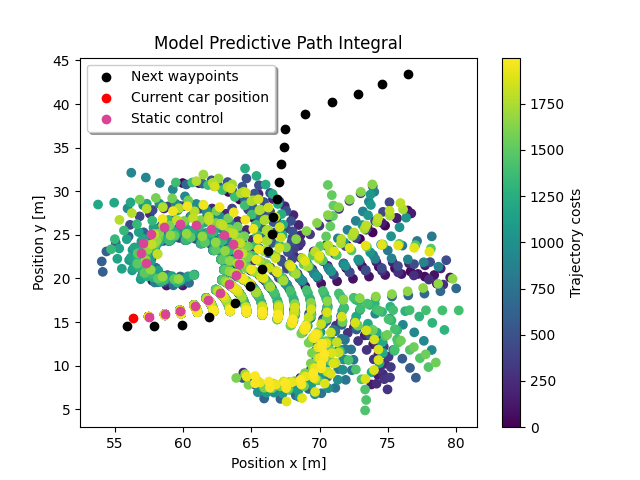
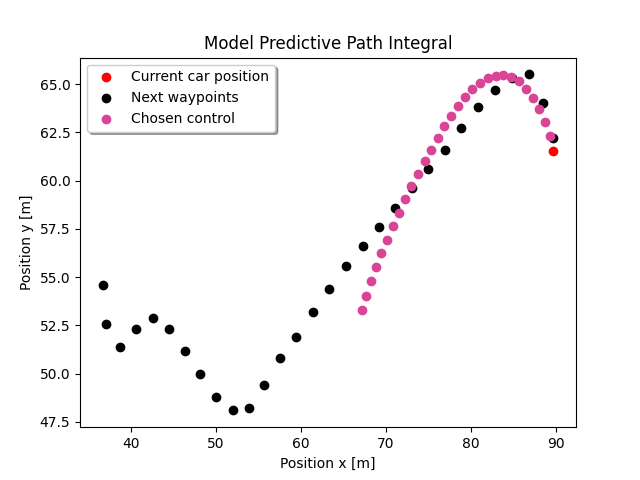
static vs random walk sampling

diff --git a/car_controller.py b/car_controller.py
@@ -1,3 +1,5 @@
+import sys
+sys.path.insert(0, './commonroad-vehicle-models/PYTHON/')
 
 from vehiclemodels.init_ks import init_ks
 from vehiclemodels.init_st import init_st
@@ -27,16 +29,25 @@ import math
 from scipy.integrate import odeint
 
 #Covariance Matrix for the input distribution
-INITIAL_COVARIANCE = [[0.4, 0], [0, 0.0]] 
+INITIAL_COVARIANCE = [[0.0, 0], [0, 0.0]] 
 
-STEP_COVARIANCE = [[0.3,0],[0,0]]
+#Covariance matrix for every next-step in the trajectory prediction
+STEP_COVARIANCE = [[0.05,0],[0,2]]
+NUMBER_OF_STEPS_PER_TRAJECTORY = 30
+
+# Must be between 0 and 1 and defines how close to a random walk the trajectories are
+# 0: The trajectories are calculated by a completely random control with mean = 0 and variance = step_covariance0 
+# 1: The trajectories are a random walk with mean = last control and variance = step_covariance
+RANDOM_WALK = 0
 
 #Number of trajectories that are calculated for every step
-NUMBER_OF_TRAJECTORIES = 100
+NUMBER_OF_TRAJECTORIES = 1000
 
 #With of the race track (ToDo)
 DIST_TOLLERANCE = 4 
 
+DRAW_CHOSEN_SEQUENCE = True
+DRAW_TRAJECTORIES = False
 
 def column(matrix, i):
         return [row[i] for row in matrix]
@@ -151,9 +162,13 @@ class CarController:
             control_input_sequences[i] = []
             next_control_input = [round(initial_steering[i],3), round(initial_acceleration[i], 3)] 
             # next_control_input = [0, 0]
-            for j in range(20):
+            for j in range(NUMBER_OF_STEPS_PER_TRAJECTORY):
 
-                step_steering, step_acceleration = np.random.multivariate_normal(last_control_input, STEP_COVARIANCE).T
+                zero_control_input = np.array([0,0])
+                last_control_input = np.array(last_control_input)
+                mean_next_control_input = RANDOM_WALK * zero_control_input + (1 - RANDOM_WALK) * last_control_input
+
+                step_steering, step_acceleration = np.random.multivariate_normal(mean_next_control_input, STEP_COVARIANCE).T
                 
                 control_input_sequences[i].append([step_steering, step_acceleration])
                 next_control_input[0] = step_steering
@@ -171,10 +186,10 @@ class CarController:
         
         # only Next 30 points of the track
         waypoint_modulus = self.track.waypoints.copy()
-        waypoint_modulus.extend(waypoint_modulus[:30])
+        waypoint_modulus.extend(waypoint_modulus[:50])
 
         closest_to_car_position = self.track.get_closest_index(self.state[:2])
-        waypoint_modulus = waypoint_modulus[closest_to_car_position: closest_to_car_position+ 50]
+        waypoint_modulus = waypoint_modulus[closest_to_car_position: closest_to_car_position+ 30]
 
         track = geom.LineString(waypoint_modulus)
 
@@ -252,6 +267,8 @@ class CarController:
             trajectory_index += 1
 
         best_input = input_samples[best_index]
+        # print("Best input", best_input)
+        return best_input
         inputs = np.array(column(input_samples,0))
 
 
@@ -296,16 +313,11 @@ class CarController:
                     costs.append(cost)
                     indices.append(ind)
                     ind += 1
-                   
-        trajectory_costs = position_ax.scatter(s_x,s_y, c=indices)
-        colorbar = fig.colorbar(trajectory_costs)
-        colorbar.set_label('Trajectory costs')
 
-        #Draw waypoints
-        waypoint_index = self.track.get_closest_index(self.state[:2])
-        w_x = self.track.waypoints_x[waypoint_index:waypoint_index+20]
-        w_y = self.track.waypoints_y[waypoint_index:waypoint_index+20]
-        position_ax.scatter(w_x,w_y, c ="#000000", label="Next waypoints")
+        if(DRAW_TRAJECTORIES):
+            trajectory_costs = position_ax.scatter(s_x,s_y, c=indices)
+            colorbar = fig.colorbar(trajectory_costs)
+            colorbar.set_label('Trajectory costs')
 
 
         #Draw car position
@@ -314,15 +326,21 @@ class CarController:
         # print("car state: ", self.state)
         position_ax.scatter(p_x,p_y, c ="#FF0000", label="Current car position")
 
+        #Draw waypoints
+        waypoint_index = self.track.get_closest_index(self.state[:2])
+        w_x = self.track.waypoints_x[waypoint_index:waypoint_index+30]
+        w_y = self.track.waypoints_y[waypoint_index:waypoint_index+30]
+        position_ax.scatter(w_x,w_y, c ="#000000", label="Next waypoints")
+
         #Plot Chosen Trajectory
         t_x = []
         t_y =[]
         for state in chosen_trajectory:
             t_x.append(state[0])
             t_y.append(state[1])
-
-        plt.scatter(t_x, t_y, c='#D94496', label="Static control")
-        plt.legend(  fancybox=True, shadow=True, loc="best")
+        if(DRAW_CHOSEN_SEQUENCE):
+            plt.scatter(t_x, t_y, c='#D94496', label="Chosen control")
+            plt.legend(  fancybox=True, shadow=True, loc="best")
 
         
         plt.savefig('sim_history.png')

diff --git a/car.py b/car.py
@@ -1,8 +1,6 @@
 
 import sys
-
 sys.path.insert(0, './commonroad-vehicle-models/PYTHON/')
-
 
 from vehiclemodels.init_ks import init_ks
 from vehiclemodels.init_st import init_st
@@ -33,13 +31,14 @@ class Car:
 
         self.parameters = parameters_vehicle2()
         # self.state = init_ks([0, 0, 0, 20, 0])
-        self.state = init_st([39.6, 15.6, 0, 8, 0, 0,0])
+        self.state = init_st([initial_position[0], initial_position[1], 0, 9, 0, 0,0])
         # self.state = init_std([initial_position[0], initial_position[1], 0, 7, 0, 0,0], p= self.parameters)
         # self.state = init_mb([419, 136, 0, 5, 0, 0,0,0, 0,0,0, 0,0,0, 0,0,0, 0,0,0, 0,0,0, 0,0,0, 0,0,0, 0,0,0, 0,0,0, 0,0], self.parameters)
         self.time = 0 #TODO:
         self.tControlSequence = 0.2  # [s] How long is a control input applied
         self.tEulerStep = 0.01
-        self.history = [] #Hostory of real car states
+        self.state_history = [] #Hostory of real car states
+        self.control_history = [] #History of controls applied every timestep
         self.track = track #Track waypoints for drawing
 
 
@@ -66,7 +65,20 @@ class Car:
         self.time += self.tControlSequence
         # print(self.time)
         self.state = x_next[-1]
-        self.history.append(x_next)
+        self.state_history.append(x_next)
+        self.control_history.append(control_input)
+
+
+
+    def save_history(self):
+        # print("Saving history...")
+        control_history = np.array(self.control_history)
+        np.savetxt("control_history.csv", control_history, delimiter=",")
+
+        state_history = np.array(self.state_history)
+        state_history = state_history.reshape(state_history.shape[0] * state_history.shape[1],7)
+        np.savetxt("car_state_history.csv", state_history, delimiter=",")
+
 
 
     """
@@ -81,7 +93,7 @@ class Car:
         s_y = []
         velocity = []
     
-        for trajectory in self.history:
+        for trajectory in self.state_history:
             for state in trajectory:
                 s_x.append(state[0])
                 s_y.append(state[1])

diff --git a/multi_step_mpc.py b/multi_step_mpc.py
@@ -14,22 +14,32 @@ waypoint_index = 1
 last_control_input = [0,0]
 
 
+
 for i in range(150):
 
-    next_control_input = car_controller.control_step()
-    chosen_trajectory = car_controller.simulate_trajectory([next_control_input] *20)
-
-    # print("Next control", next_control_input)
+    next_control_sequence = car_controller.control_step()
+    chosen_trajectory = car_controller.simulate_trajectory(next_control_sequence)
 
     # Comment this out for speedup
-    # car_controller.draw_simulated_history(waypoint_index,chosen_trajectory)
+    car_controller.draw_simulated_history(waypoint_index,chosen_trajectory)
 
-    car.step(next_control_input)
+    #Do the first step of the best control sequence
+    car.step(next_control_sequence[0])
+    #Update car state
     car_controller.set_state(car.state)
 
+
+    print(i)
+    car.save_history()
     car.draw_history()
 
+   
+
 car.draw_history()
+car.save_history()
+
+# print(history)
+# exit()
 
 
 
